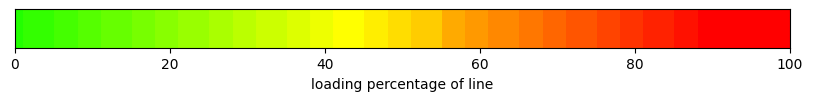
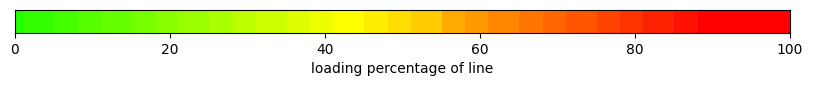
2 colorgradients now in place

diff --git a/dash-visualization-tool.py b/dash-visualization-tool.py
@@ -18,16 +18,16 @@ import pandapower.plotting as pplt
 # import plotly.graph_objects as go
 # import numpy as np
 # from pandapower.plotting.plotly import get_plotly_color_palette
-import matplotlib.pyplot
-import numpy as np
+# import matplotlib.pyplot
+# import numpy as np
 
 from create_net import createLVnet, createMVnet
-from generate_stylesheet import generate_stylesheet, generate_gradient_scale_line_loading, generate_gradient_scale_vlevel_undervoltage
+from generate_stylesheet import generate_stylesheet, generate_gradient_scale_line_loading, generate_gradient_scale_vlevel_undervoltage, generate_gradient_scale_vlevel_overvoltage
 from generate_cytoscape_elements import generate_nodes, generate_edges
 
 
 
-##### creating LV net #####
+##### creating LV and MV net #####
 pathLV = 'data/spanish_LV_net/'
 
 bus_df = pd.read_excel(pathLV+'bus_df.xlsx')
@@ -46,6 +46,11 @@ netLV = createLVnet(bus_df, line_df, ext_grid_df, load_per_bus_df)
 pathMV = 'data/MV_benchmarks/'
 netMV = createMVnet(pathMV+'bus33.json')
 
+
+#########
+
+
+
 Pandanet = netMV
 
 pp.runpp(Pandanet)
@@ -63,12 +68,16 @@ vlevels_pu = Pandanet.res_bus.vm_pu.values
 green_to_red = ['#00FF00','#11FF00','#22FF00','#33FF00','#44FF00','#55FF00','#66FF00','#77FF00','#88FF00','#99FF00',
                 '#AAFF00','#BBFF00','#CCFF00','#DDFF00','#EEFF00','#FFFF00','#FFEE00','#FFDD00','#FFCC00','#FFAA00','#FF9900','#FF8800',
                 '#FF7700','#FF6600','#FF5500','#FF4400','#FF3300','#FF2200','#FF1100','#FF0000']
+green_to_blue = ['#00FF00','#00FF11','#00FF22','#00FF33','#00FF44','#00FF55','#00FF66','#00FF77','#00FF88','#00FF99',
+                '#00FFAA','#00FFBB','#00FFCC','#00FFDD','#00FFEE','#00FFFF','#00EEFF','#00DDFF','#00CCFF','#00AAFF','#0099FF','#0088FF',
+                '#0077FF','#0066FF','#0055FF','#0044FF','#0033FF','#0022FF','#0011FF','#0000FF']
 
-cut_off_v_pu_hardcoded = 0.95 # cut_off_v_pu is hardcoded
+cut_off_v_pu_hardcoded_undervoltage = 0.95 # cut_off_v_pu is hardcoded
+cut_off_v_pu_hardcoded_overvoltage = 1.05
 
 generate_gradient_scale_line_loading(green_to_red)
-generate_gradient_scale_vlevel_undervoltage(green_to_red,cut_off_v_pu_hardcoded) # cut_off_v_pu is hardcoded
-
+generate_gradient_scale_vlevel_undervoltage(green_to_red,cut_off_v_pu_hardcoded_undervoltage) # cut_off_v_pu is hardcoded, also in generate nodes
+generate_gradient_scale_vlevel_overvoltage(green_to_blue,cut_off_v_pu_hardcoded_overvoltage)
 
 
 
@@ -98,12 +107,13 @@ app.layout = html.Div([
                             maxZoom = 100,
                             layout={'name': 'preset'},
                             style={'width': '100%', 'height': '500px'},
-                            stylesheet = generate_stylesheet(6,0.5,green_to_red),
-                            elements=generate_nodes(Pandanet,vlevel = False,colorgradient=green_to_red) + generate_edges(Pandanet,Loading = False,colorgradient=green_to_red)
+                            stylesheet = generate_stylesheet(6,0.5,green_to_red,green_to_blue),
+                            elements=generate_nodes(Pandanet,vlevel = False,colorgradient1=green_to_red,colorgradient2=green_to_blue) + generate_edges(Pandanet,Loading = False,colorgradient=green_to_red)
                             ),
 
                         html.Img(src='assets/linegradient.png'),
                         html.Img(src='assets/undervoltagegradient.png'),
+                        html.Img(src='assets/overvoltagegradient.png'),
                         ],
                     width = {'size':8, 'offset': 0, 'order': 1 }
                         ),
@@ -128,13 +138,13 @@ app.layout = html.Div([
                                 
                         dcc.Slider(1,50,
                                     step =2,
-                                    value=25,
+                                    value=3,
                                     id = 'bus-size-slider',
                         ),
                                 
                         dcc.Slider(1,10,
                                     step =1,
-                                    value=6,
+                                    value=1,
                                     id = 'line-size-slider',
                         ),
                         
@@ -197,13 +207,13 @@ def map_style(radio_value_loading, radio_value_buscolor,n_clicks):
         rerun_status = """"""
 
     if radio_value_loading =='Yes' and radio_value_buscolor=="Yes":
-        return generate_nodes(Pandanet,vlevel = True,colorgradient=green_to_red) + generate_edges(Pandanet,Loading = True,colorgradient=green_to_red),rerun_status
+        return generate_nodes(Pandanet,vlevel = True,colorgradient1=green_to_red,colorgradient2=green_to_blue) + generate_edges(Pandanet,Loading = True,colorgradient=green_to_red),rerun_status
     elif radio_value_loading =='Yes' and radio_value_buscolor=="No":
-        return generate_nodes(Pandanet,vlevel = False,colorgradient=green_to_red) + generate_edges(Pandanet,Loading = True,colorgradient=green_to_red),rerun_status
+        return generate_nodes(Pandanet,vlevel = False,colorgradient1=green_to_red,colorgradient2=green_to_blue) + generate_edges(Pandanet,Loading = True,colorgradient=green_to_red),rerun_status
     elif radio_value_loading =='No' and radio_value_buscolor=="Yes":
-        return generate_nodes(Pandanet,vlevel = True,colorgradient=green_to_red) + generate_edges(Pandanet,Loading = False,colorgradient=green_to_red),rerun_status
+        return generate_nodes(Pandanet,vlevel = True,colorgradient1=green_to_red,colorgradient2=green_to_blue) + generate_edges(Pandanet,Loading = False,colorgradient=green_to_red),rerun_status
     else:
-        return generate_nodes(Pandanet,vlevel = False,colorgradient=green_to_red) + generate_edges(Pandanet,Loading = False,colorgradient=green_to_red),rerun_status
+        return generate_nodes(Pandanet,vlevel = False,colorgradient1=green_to_red,colorgradient2=green_to_blue) + generate_edges(Pandanet,Loading = False,colorgradient=green_to_red),rerun_status
 
 @app.callback( #callback naar stylesheet (grote van elementen)
     Output(component_id='net map',component_property= 'stylesheet'),
@@ -211,7 +221,7 @@ def map_style(radio_value_loading, radio_value_buscolor,n_clicks):
     Input(component_id='line-size-slider', component_property='value')
     )
 def bus_sizer(bus, line):
-    return generate_stylesheet(bus, line,green_to_red)
+    return generate_stylesheet(bus, line,green_to_red,green_to_blue)
 
 @app.callback(
             Output('hover-info-node','children'),

diff --git a/generate_stylesheet.py b/generate_stylesheet.py
@@ -2,7 +2,7 @@ import matplotlib.pyplot
 import numpy as np
 
 
-def generate_stylesheet(bus_size,line_size,colorgradient):
+def generate_stylesheet(bus_size,line_size,colorgradient,colorgradient2):
     all_styles = [{
                     'selector': '.ext_grid',
                     'style': {
@@ -84,6 +84,17 @@ def generate_stylesheet(bus_size,line_size,colorgradient):
                         'border-color': 'black',
                         }
                 },)
+    for hexcode in colorgradient2:
+        all_styles.append({
+                    'selector': '.' + hexcode[1:],
+                    'style': {
+                        'background-color': hexcode,
+                        'width' : bus_size,
+                        'height' : bus_size,
+                        'border-width': bus_size*0.1,
+                        'border-color': 'black',
+                        }
+                },)
     for hexcode in colorgradient:
         all_styles.append({
                     'selector': '.' + hexcode[1:] + 'line',
@@ -91,6 +102,7 @@ def generate_stylesheet(bus_size,line_size,colorgradient):
                         'line-color': hexcode,
                         'width': line_size}
                 },)
+    
     all_styles.append({
                     'selector': ':selected',
                     'style': {
@@ -100,7 +112,7 @@ def generate_stylesheet(bus_size,line_size,colorgradient):
     return all_styles
 
 def generate_gradient_scale_line_loading(colorgradient):
-    fig, ax = matplotlib.pyplot.subplots(figsize=(10,0.5))
+    fig, ax = matplotlib.pyplot.subplots(figsize=(10,0.3))
     ax.set_xlim(0, 100)
     ax.set_yticks([])
     matplotlib.pyplot.xlabel('loading percentage of line')
@@ -117,7 +129,7 @@ def generate_gradient_scale_vlevel_undervoltage(colorgradient,cut_off_v_pu):
     x_start = 1
     x_end = cut_off_v_pu
     step_size = (x_start - x_end)/len(colorgradient)
-    fig, ax = matplotlib.pyplot.subplots(figsize=(10,0.5))
+    fig, ax = matplotlib.pyplot.subplots(figsize=(10,0.3))
     ax.set_xlim(x_start, x_end)
     ax.set_yticks([])
     matplotlib.pyplot.xlabel('Undervoltage of Busses [pu]')
@@ -127,4 +139,20 @@ def generate_gradient_scale_vlevel_undervoltage(colorgradient,cut_off_v_pu):
         colorindex = colorindex.astype(int)
         ax.axvline(x, color=colorgradient[colorindex], linewidth=100)
     matplotlib.pyplot.savefig('assets/undervoltagegradient.png',bbox_inches='tight')
+    return
+
+def generate_gradient_scale_vlevel_overvoltage(colorgradient,cut_off_v_pu):
+    x_start = 1
+    x_end = cut_off_v_pu
+    step_size = (x_end - x_start)/len(colorgradient)
+    fig, ax = matplotlib.pyplot.subplots(figsize=(10,0.3))
+    ax.set_xlim(x_start, x_end)
+    ax.set_yticks([])
+    matplotlib.pyplot.xlabel('Overvoltage of Busses [pu]')
+    for x in np.arange(x_start, x_end, step_size):
+        diff = (x-1)/(x_end - x_start)*len(colorgradient)
+        colorindex = np.floor(diff)
+        colorindex = colorindex.astype(int)
+        ax.axvline(x, color=colorgradient[colorindex], linewidth=100)
+    matplotlib.pyplot.savefig('assets/overvoltagegradient.png',bbox_inches='tight')
     return

diff --git a/generate_cytoscape_elements.py b/generate_cytoscape_elements.py
@@ -2,15 +2,15 @@ from numpy import floor, isnan
 
 
 
-def generate_nodes(pandanet,vlevel,colorgradient):
+def generate_nodes(pandanet,vlevel,colorgradient1,colorgradient2):
     all_nodes =[]
     ext_grid = pandanet.ext_grid.bus.values
-    max_difference = 0.05 ## max difference that will be shown on the map. Difference higher will have the same color. Used to normalize the vlevels
+    max_difference = 0.05 ## HARDCODED  max difference that will be shown on the map. Difference higher will have the same color. Used to normalize the vlevels
     if vlevel:
         vlevels = pandanet.res_bus.vm_pu.values
-        diff = (1-vlevels)/max_difference*len(colorgradient)
-        colorindex = floor(diff)
-        colorindex = colorindex.astype(int)
+        #diff = (1-vlevels)/max_difference*len(colorgradient1)
+        #colorindex = floor(diff)
+        #colorindex = colorindex.astype(int)
         for node in pandanet.bus.index:
             x_coord = int(pandanet.bus_geodata.x[node]*10) # !!! COORDINATES ARE x 10, 
             y_coord = int(pandanet.bus_geodata.y[node]*10)
@@ -19,10 +19,25 @@ def generate_nodes(pandanet,vlevel,colorgradient):
             elif isnan(vlevels[node]):
                 print('bus ' + str(node) + '= nan')
                 all_nodes.append({'data':{'id': str(node)}, 'position': {'x': x_coord, 'y': -y_coord}, 'classes': 'bus-nan'})
-            elif colorindex[node] < len(colorgradient):
-                all_nodes.append({'data':{'id': str(node)}, 'position': {'x': x_coord, 'y': -y_coord}, 'classes': colorgradient[colorindex[node]][1:]})  
             else:
-                all_nodes.append({'data':{'id': str(node)}, 'position': {'x': x_coord, 'y': -y_coord},'classes': colorgradient[len(colorgradient) -1][1:]})
+                if vlevels[node] <=1:
+                    diff = (1-vlevels[node])/max_difference*len(colorgradient1)
+                    colorindex = floor(diff)
+                    colorindex = colorindex.astype(int)
+                    if colorindex < len(colorgradient1):
+                        all_nodes.append({'data':{'id': str(node)}, 'position': {'x': x_coord, 'y': -y_coord}, 'classes': colorgradient1[colorindex][1:]})
+                    else:
+                        all_nodes.append({'data':{'id': str(node)}, 'position': {'x': x_coord, 'y': -y_coord},'classes': colorgradient1[len(colorgradient1) -1][1:]})
+                
+                else:
+                    diff = (vlevels[node]-1)/max_difference*len(colorgradient2)
+                    colorindex = floor(diff)
+                    colorindex = colorindex.astype(int)
+                    if colorindex[node] < len(colorgradient2):
+                        all_nodes.append({'data':{'id': str(node)}, 'position': {'x': x_coord, 'y': -y_coord}, 'classes': colorgradient2[colorindex][1:]})  
+                    else:
+                        all_nodes.append({'data':{'id': str(node)}, 'position': {'x': x_coord, 'y': -y_coord},'classes': colorgradient2[len(colorgradient2) -1][1:]})
+                colorindex = int()
     else:
         for node in pandanet.bus.index:
             x_coord = int(pandanet.bus_geodata.x[node]*10)
